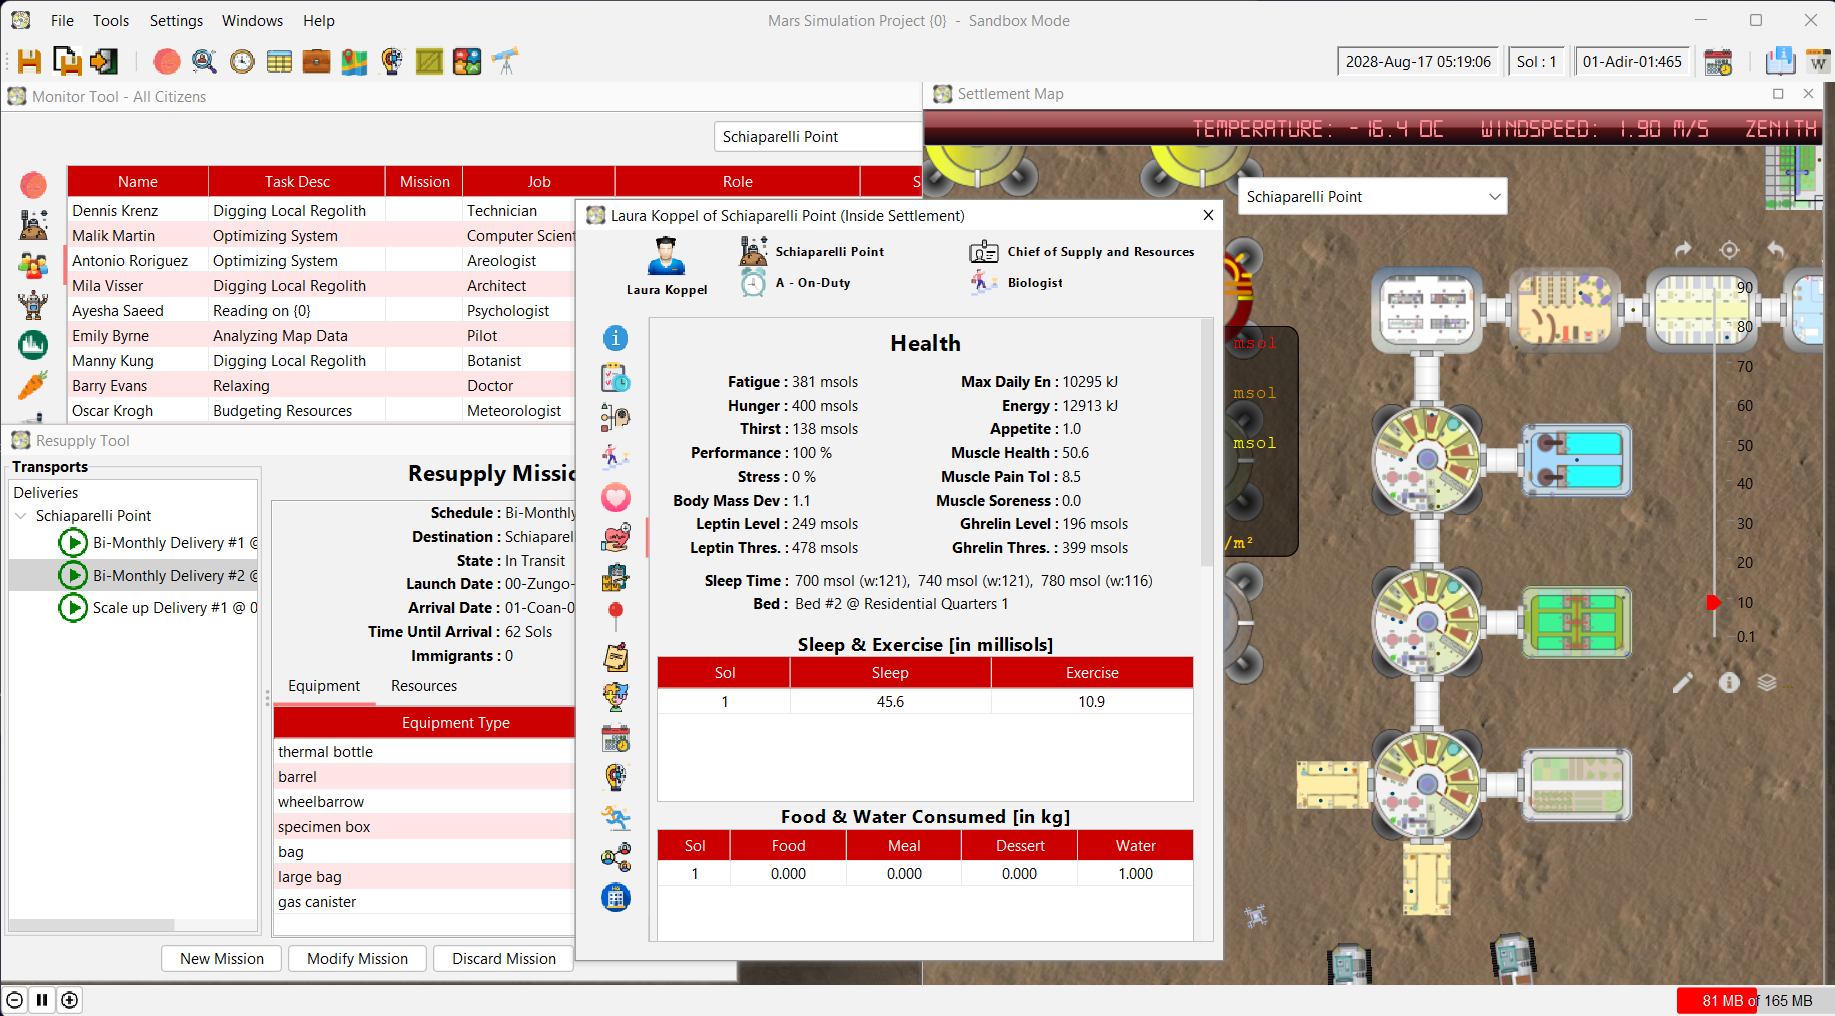
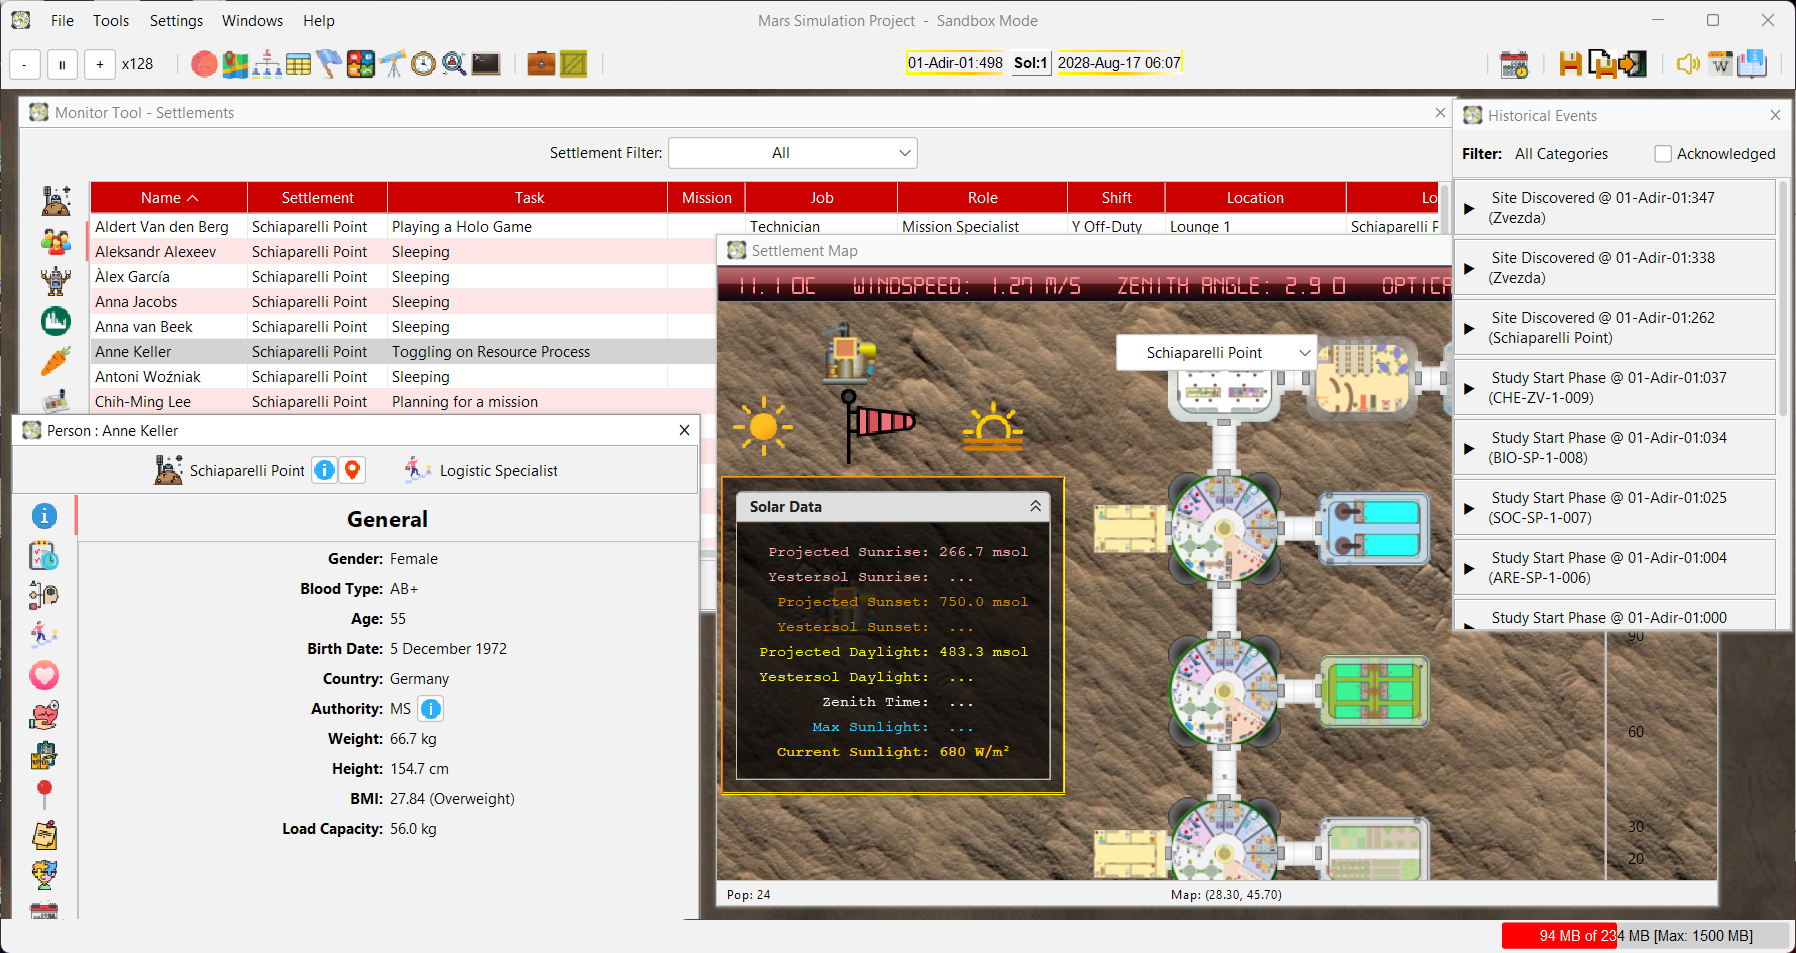
docs: Update screenshots for 4.0

diff --git a/content/docs/guide/started/starting.md b/content/docs/guide/started/starting.md
@@ -27,36 +27,35 @@ Start commands are:
 * bin/mars-sim-console 		- Linux start script for the Console headless variant
 * bin/mars-sim-console.cmd 	- Window start script for the Console headless variant
 
-
+The command line options available are:
 ```
-Common command line arguments are:
- -baseurl <URL to remote content>    URL to the remote content repository
-                                     (defaults to master in GitHub)
- -configdir <directory>              Directory for configurations files
- -datadir <path to data directory>   Path to the data directory for
-                                     simulation files (defaults to user.home)
- -diags <<module>,<module>.....>     Enable diagnostics modules
- -help                               Display help options
- -load <path to simulation file>     Load the a previously saved sim.
-                                     No argument open file selection dialog.
-                                     'default' will use default
- -location <coordinates>             Set the coordinates of the new template Settlement
- -log <logfile [size K|M|G:count]>   Enable logging to a logfile sequence with an optional size per file
- -new                                Enable quick start
- -scenario <scenario name>           New simulation from a scenario
-
- -sponsor <sponsor>                  Set the sponsor for the settlement template
- -template <template name>           New simulation from a template
- -timeratio <Ratio (power of 2)>     Define the time ratio of the
-                                     simulation
-Swing variant arguments
- -cleanui                            Disable loading stored UI configurations
- -noaudio                            Disable the audio
- -profile                            Set up the Commander Profile
- -site                               Start the Scenario Editor
- 
-Console variant arguments
- -noremote                           Do not start a remote console service
- -remote <port number>               Run the remote console service [default]
- -resetadmin                         Reset the internal admin password
+              Options                               Description
+ -configdir <directory>                 Directory for configurations
+ -log <Log file [size K|M|G:count]>     Enable file logging
+ -timeratio <Ratio (power of 2)>        Define the time ratio of the
+                                         simulation
+ -datadir <path to data directory>      Path to the data directory for
+                                         simulation files (defaults to
+                                         user.home)
+ -baseurl <URL to remote content>       URL to the remote content
+                                         repository (defaults to master in
+                                         GitHub)
+ -new                                   Enable quick start
+ -scenario <scenario name>              New simulation from a scenario
+ -template <template name>              New simulation from a template
+ -sponsor <sponsor>                     Set the sponsor for the settlement
+                                         template
+ -location <coordinates>                Set the coordinates of the new     
+                                         template Settlement
+ -crew <true|false>                     Enable or disable use of the crews
+ -diags <<module>,<module>.....>        Enable diagnositics modules
+ -help                                  Display help options
+ -noaudio                               Disable the audio
+ -cleanui                               Disable loading stored UI
+                                         configurations
+ -dockingui                             Enable the docking UI
+ -debugui                               Enable debug UI
+ -site                                  Start the Scenario Editor
+ -load <path to simulation file>        Load the a previously saved sim. No
+                                         argument default will be used.
 ```

diff --git a/content/docs/screenshots/_index.md b/content/docs/screenshots/_index.md
@@ -5,10 +5,10 @@ date: 2017-01-05
 weight: 50
 ---
 
-<span class="badge text-bg-primary">Version: 3.9.0</span>
+<span class="badge text-bg-primary">Version: 4.0</span>
 Screenshots from Mars Simulation Project.
 
-Overview of the application showing the Resupply Tool, a Person, Monitor Tool and Settlement Map.
+Overview of the application showing the Event Viewer, a Person, Monitor Tool and Settlement Map.
 {{< figure src="/images/screenshots/overview.png" caption="Main Application" >}}
 
 The Settlement Map shows the Buildings, Persons, Robots & Vehicles within a Settlement.
@@ -20,13 +20,10 @@ The monitor tool shows a tablular display of various entities within a sellected
 Settlement can start Missions to go explore the Mars Surface.
 {{< figure src="/images/screenshots/mission-tool.png" caption="Mission Tool" >}}
 
-Persons collaborate to advance science knowledge.
-{{< figure src="/images/screenshots/science-study.png" caption="Science Tool" >}}
-
 The simulation can accelerate time and keep track of time on Earth as well as Mars.
 {{< figure src="/images/screenshots/time-tool.png" caption="Time Tool" >}}
 
-The various attributes of the simulated entities are shown in targeted tab panels.
+The various attributes of the simulated entities are shown in targeted tab panels. Below shows the Entity Browser as well.
 {{< figure src="/images/screenshots/info-windows.png" caption="Info Windows: Vehicle/Settlement/Building" >}}
 
 The Scenario Editor allows the starting set-up of the simulation to be changed.

diff --git a/content/docs/guide/started/version.md b/content/docs/guide/started/version.md
@@ -4,6 +4,37 @@ linktitle: Version
 description: History of the MarsSim releases
 weight: 50
 ---
+
+## Version 4.0 (Apr 2026)
+
+### A. CORE ENGINE IMPROVEMENTS
+
+- Expand the creation of Historical Events.	
+- Create a BuildingPlan in the Settlement Template that defines future Building construction.
+- Lunar Colonies are controlled by the Scenario Template.
+- Create a single framework for Event/Listener pattern for all Entity implementations.
+- Create a Governance class to consolidate governance-related functionalities for Settlements.
+    
+### B. UI IMPROVEMENT
+
+- Major redesign of the UI framework to support better expansion and customization.
+- New entity window to show details of a Mission.
+- New entity window to show details of a Scientific Study.
+- New entity window to show details of a Transportation Mission.
+- New entity window to show details of Tran Authority.
+- New Event Viewer tool to show a feed of recent events.
+- New Entity Browser tool to explore all entities.
+- New Console tool to replace the standalone console terminal.
+- New Mission & Transportation Creation wizard.
+- Removal of the old Mission, Scientific Study, and Transportation tools.
+- New audio control tool to manage music and sound effects.
+- Provide alternative windowing styles based on docking window, i.e. IDE.
+  
+### C. FIXES
+
+- Fix unit tests to be JUnit 5.
+
+
 ## Version 3.10.0 (Oct 2025)
 
 ### A. CORE ENGINE IMPROVEMENTS:
